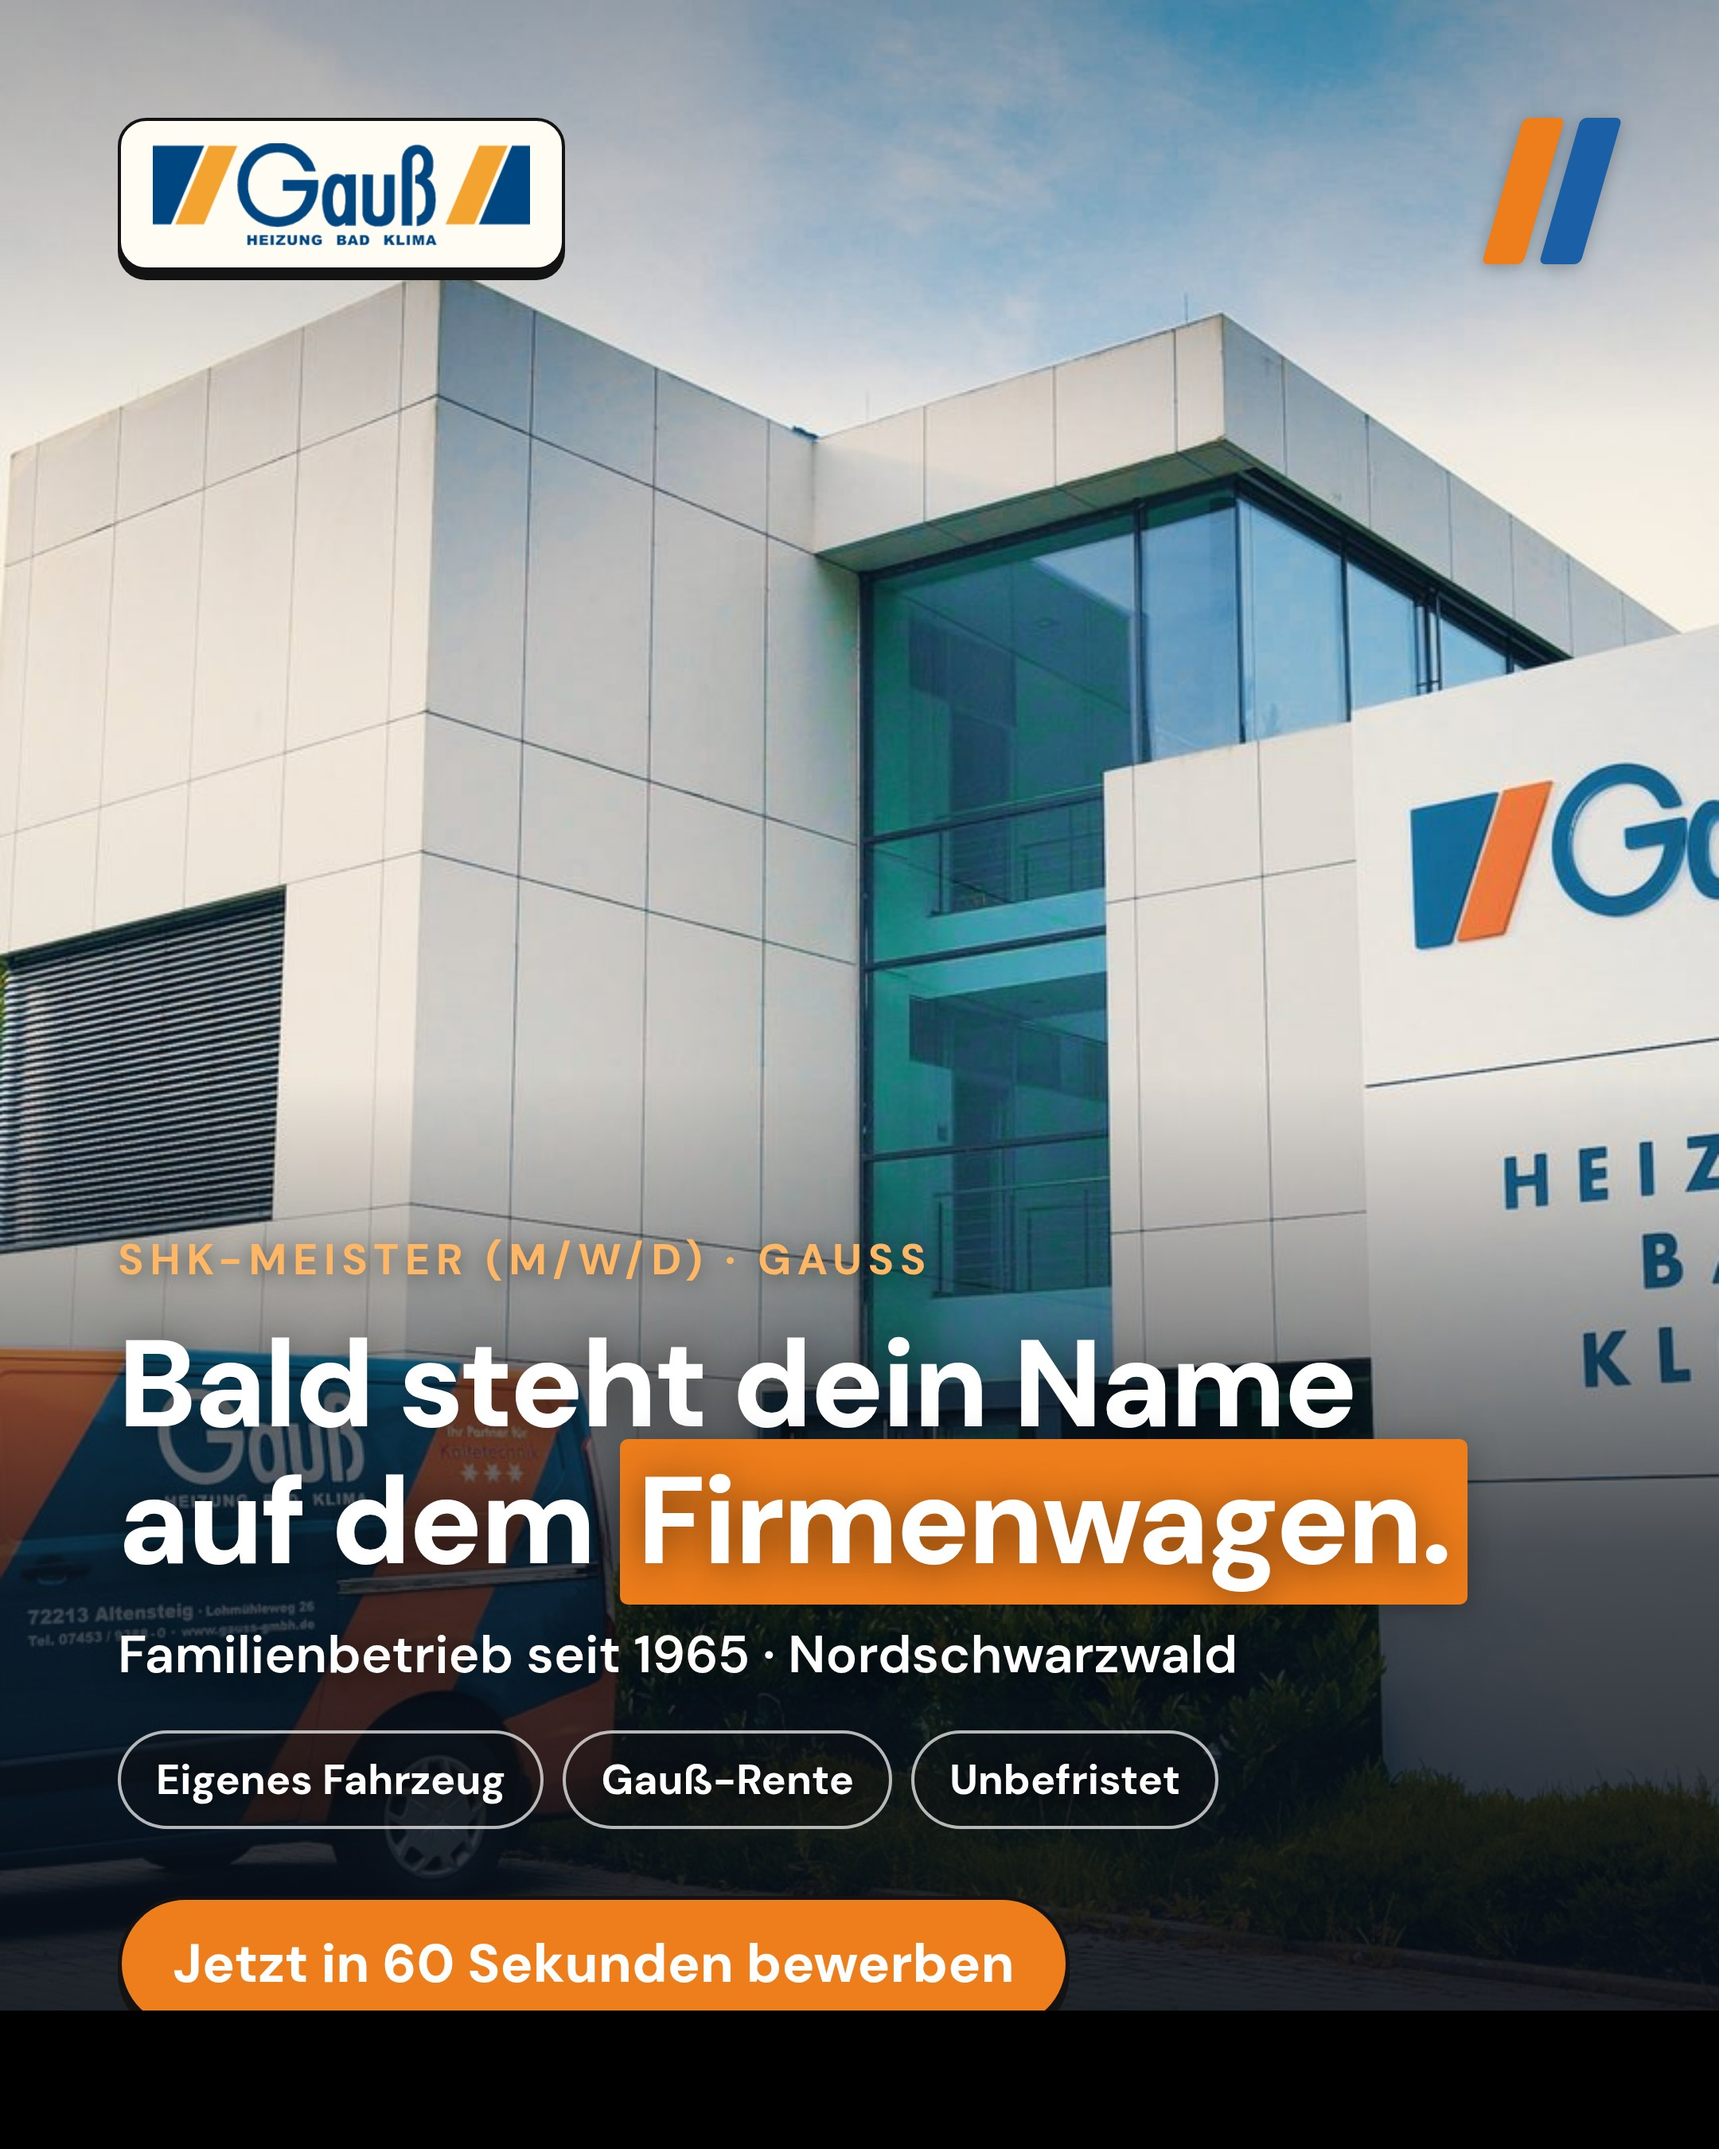
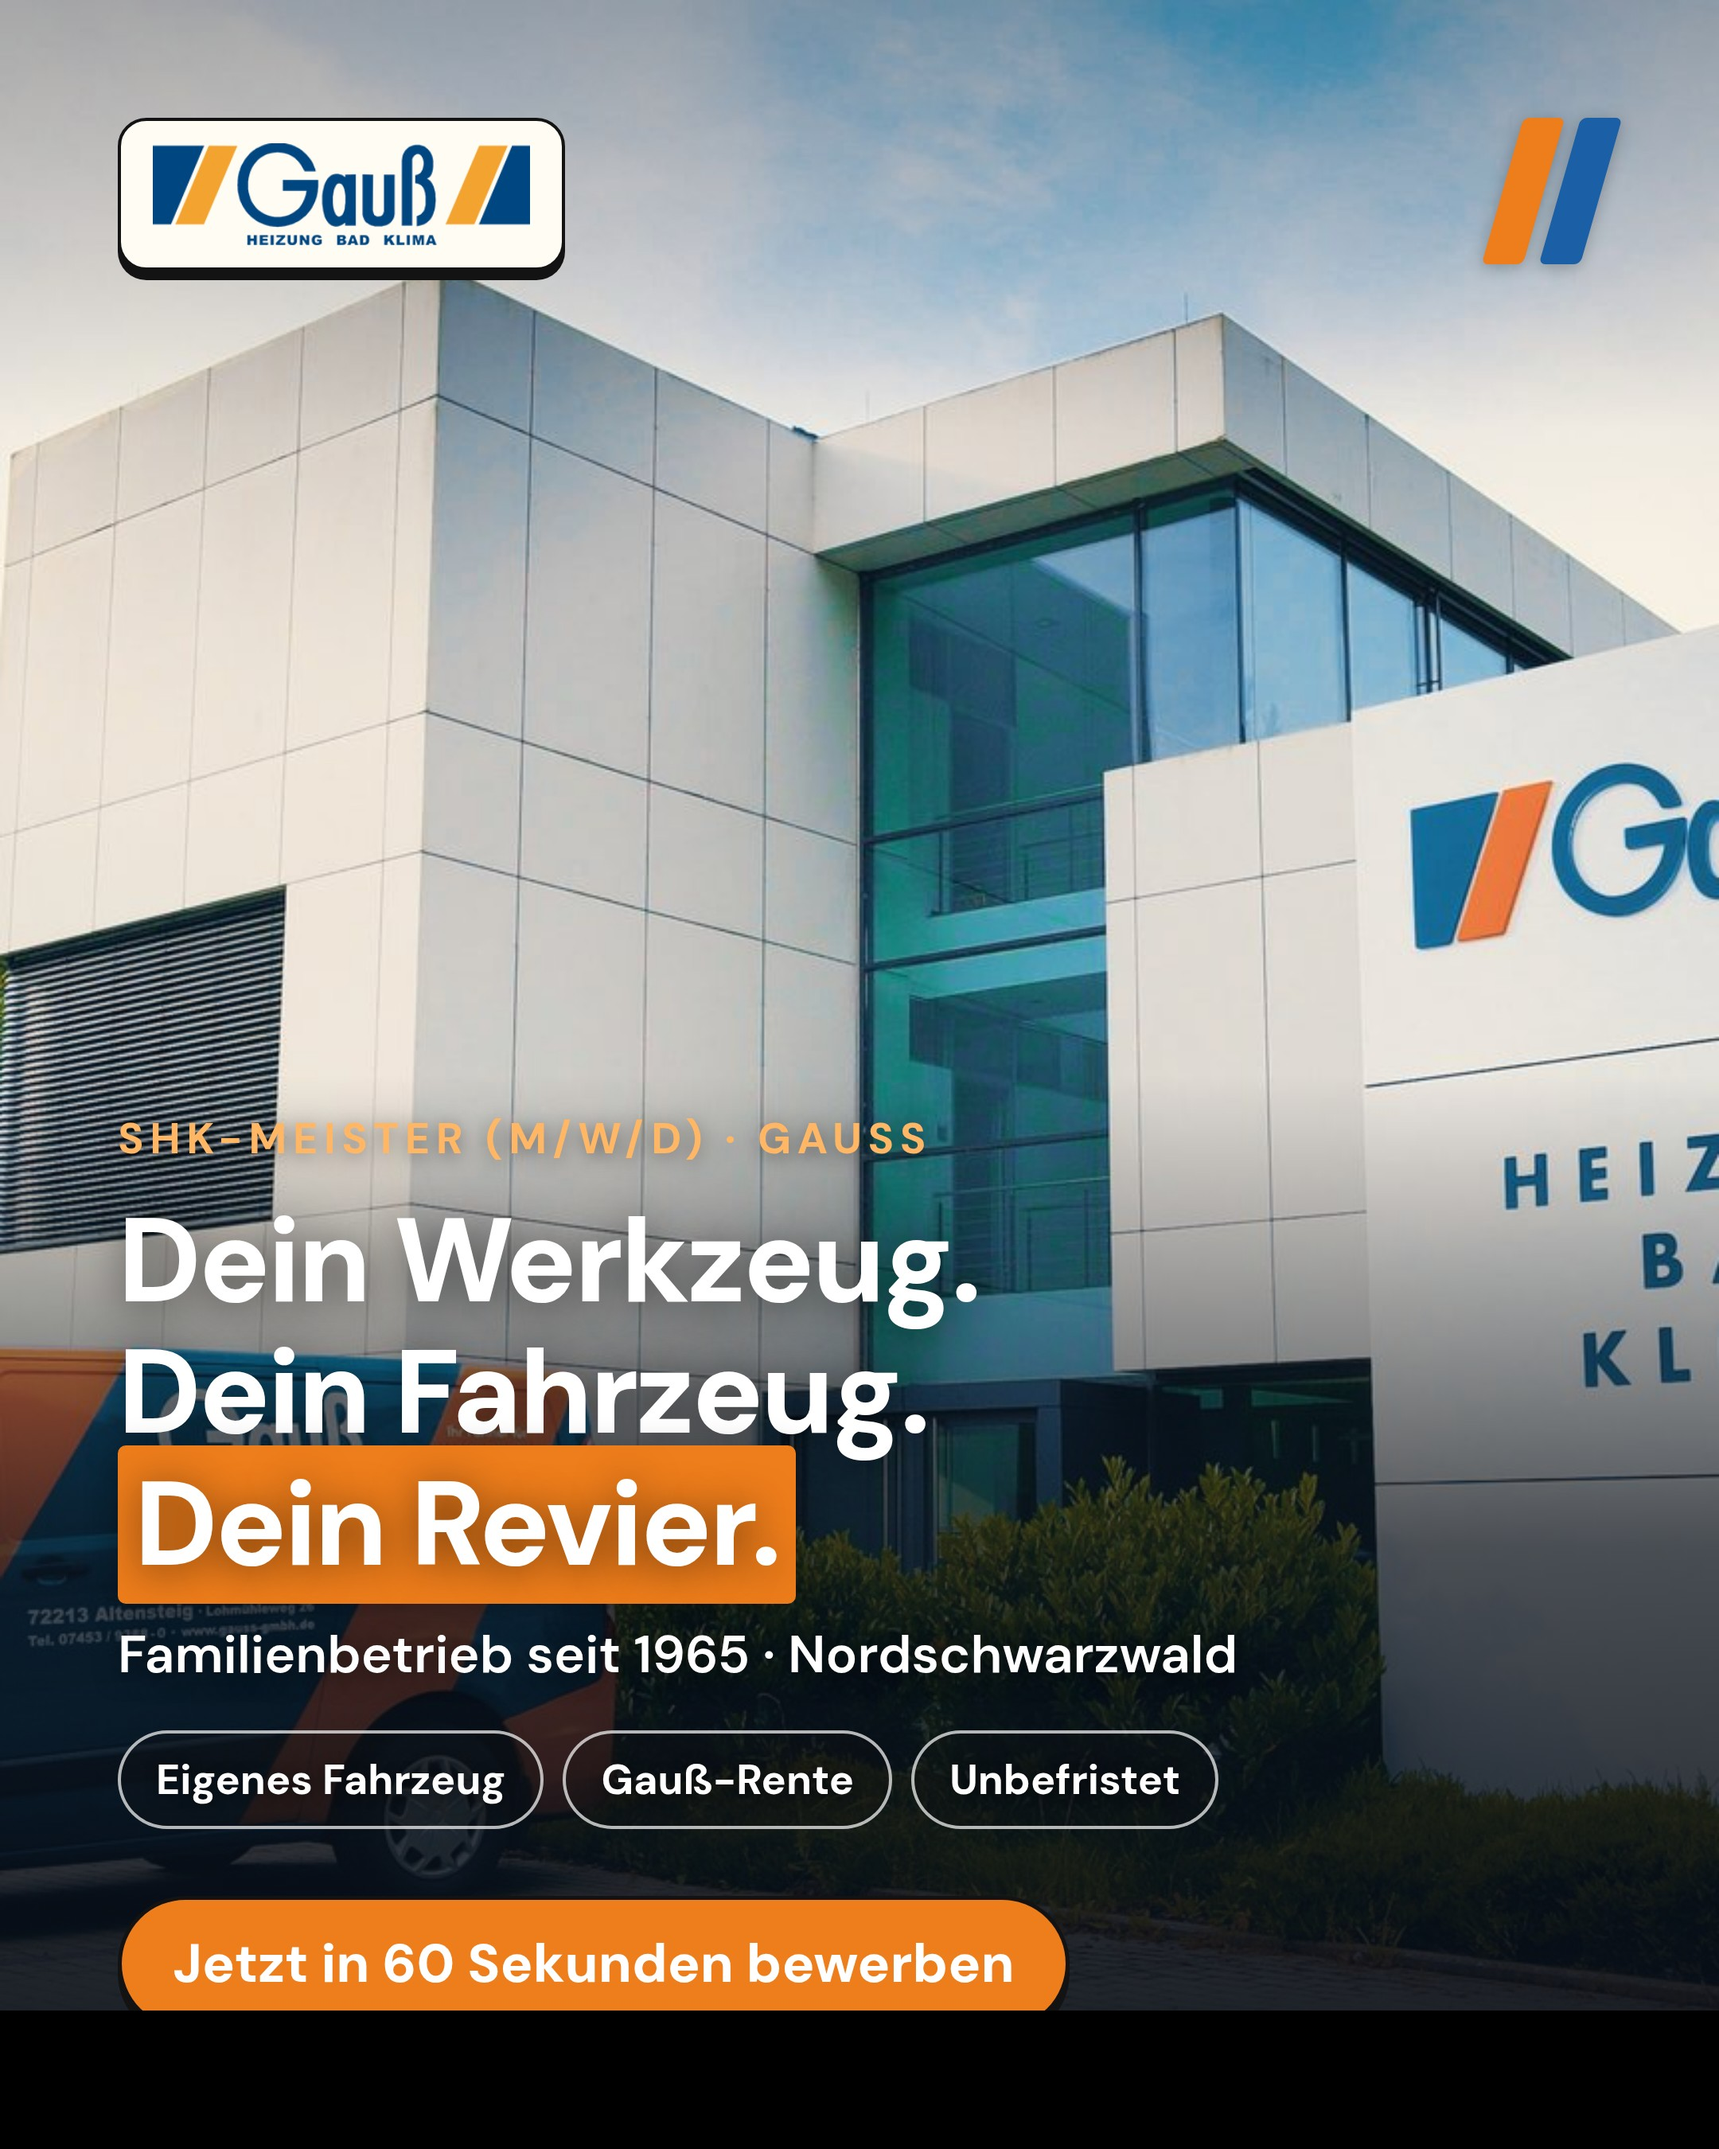
Concept A: new headline 'Dein Werkzeug. Dein Fahrzeug. Dein Revier.'
Claude-Session: https://claude.ai/code/session_01CdVYdczDmkMnotWucW3gGt

Changed region(s): [[0.062, 0.4978, 0.8685, 0.7467]]

diff --git a/creatives/README.md b/creatives/README.md
@@ -6,7 +6,7 @@ keine URL im Bild (die Funnel-URL kommt in das Link-/Button-Feld der Anzeige).
 
 | Datei | Konzept | Headline | Foto |
 |-------|---------|----------|------|
-| `gauss_shk_A-firmenwagen_*` | Firmenwagen / Identifikation | „Bald steht dein Name auf dem **Firmenwagen.**" | Firmensitz + Fahrzeuge |
+| `gauss_shk_A-firmenwagen_*` | Firmenwagen / Identifikation | „Dein Werkzeug. Dein Fahrzeug. **Dein Revier.**" | Firmensitz + Fahrzeuge |
 | `gauss_shk_B-feierabend_*`  | Work-Life / Benefit | „Feierabend ist bei uns **kein Zufall.**" | Bauhelm auf Plänen |
 | `gauss_shk_C-waermewende_*` | Sinn / Mission | „Andere reden von der Wärmewende. **Du baust sie ein.**" | Team am Bauplan |
 
